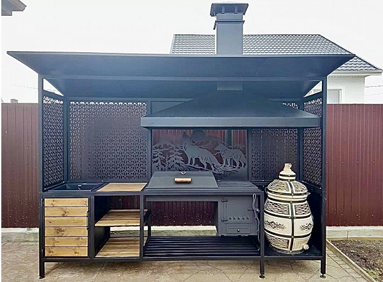
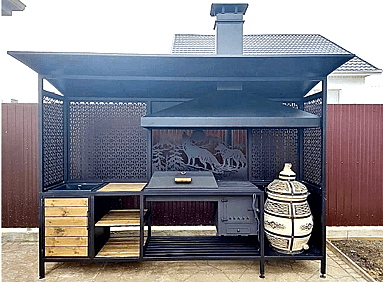
удалены 3 лишние карточки, улучшено качество 6 фото мангалов

Changed region(s): [[0.0, 0.0, 1.0, 1.0], [0.0, 0.0, 0.0862, 0.0567], [0.6893, 0.9078, 0.718, 0.9362]]

diff --git a/index.html b/index.html
@@ -387,24 +387,7 @@
               <p class="card__text">Сталь 4 мм, термостойкая эмаль, для баз отдыха и глэмпингов</p>
               <p class="card__price">20 860 ₽</p>
             </div>
-            <div class="card card--product card--product-img fade-in">
-              <div class="card__image"><img src="img/port-1.jpg" alt="Кастомные мангалы серии BBQ" loading="lazy"></div>
-              <h3 class="card__title">МАНГАЛЫ НА ЗАКАЗ</h3>
-              <p class="card__text">Любые размеры и конфигурации. Индивидуальный проект под ваш запрос.</p>
-              <p class="card__price">от 25 000 ₽</p>
-            </div>
-            <div class="card card--product card--product-img fade-in">
-              <div class="card__image"><img src="img/port-4.jpg" alt="Мангалы с коптильней и казаном" loading="lazy"></div>
-              <h3 class="card__title">С КОПТИЛЬНЕЙ И КАЗАНОМ</h3>
-              <p class="card__text">Комплексы с встроенной коптильней, местом под казан, мойкой</p>
-              <p class="card__price">от 45 000 ₽</p>
-            </div>
-            <div class="card card--product card--product-img fade-in">
-              <div class="card__image"><img src="img/gal-besedki.jpg" alt="Беседки и зоны отдыха" loading="lazy"></div>
-              <h3 class="card__title">БЕСЕДКИ И ЗОНЫ ОТДЫХА</h3>
-              <p class="card__text">Металлические беседки, костровые зоны, уличные каминные комплексы</p>
-              <p class="card__price">от 35 000 ₽</p>
-            </div>
+
           </div>
         </div>
         <!-- Ворота и навесы -->
